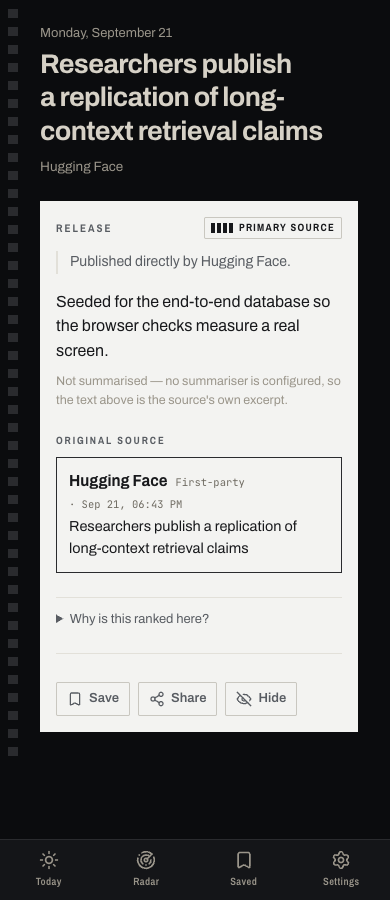
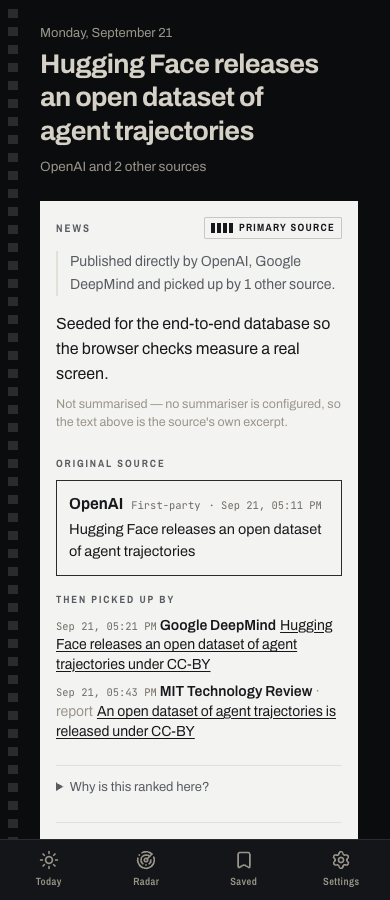
The multi-source path, seen rendered — and three defects it revealed
The reviewer blocked on the gap I disclosed rather than waving it
through, and the argument was made out of this PR's own evidence: this
page has a demonstrated defect class that typecheck, unit tests and DOM
assertions do not catch — four found by looking — one of which made a
SOURCE'S NAME barely legible, and the unlooked-at path renders SEVERAL
source names with roles. That is not an edge case, it is the ticket's
subject in its densest form.

A MULTI-SOURCE STORY NOW EXISTS LOCALLY, through the real pipeline. Two
seeded items with nearly identical headlines and different links go to
two different feeds; assignStory clusters them on title similarity
rather than on the trivial same-URL path. They joined an existing item,
so the corpus now holds a story with THREE sources and a real pickup
order. Nothing is hand-written: it goes through runIngest, the real
normalizer and the real clusterer like every other seeded story.

THREE DEFECTS IT REVEALED, none of which any test would have failed on:

THE TRUE PRIMARY WAS BEING PICKED BY ROLE. Real data produced a story
with two items both marked "primary" — role is a property of an item and
nothing stops two carrying it — while stories.primary_item_id picks
exactly one and is what story.url is built from. Matching the url agrees
with the card by construction; "the first one with the role" would have
been right almost always and silently wrong here.

A ROLE OF "primary" WAS PRINTED UNDER "THEN PICKED UP BY", which says the
[…]

diff --git a/src/components/story/story-provenance.tsx b/src/components/story/story-provenance.tsx
@@ -33,7 +33,21 @@ export function StoryProvenance({
   story: StoryDetail;
   publishedAt: Date | null;
 }) {
-  const primary = story.items.find((i) => i.role === "primary") ?? story.items[0] ?? null;
+  // THE TRUE PRIMARY IS THE ONE THE STORY'S OWN URL CAME FROM, not the first
+  // item wearing the role. Real seeded data turned up a story with THREE
+  // sources and TWO items both marked "primary" — `role` is a property of an
+  // item, and nothing stops two of them carrying it, while `stories.
+  // primary_item_id` picks exactly one and is what `story.url` is built from.
+  //
+  // Matching on the url therefore agrees with the card by construction rather
+  // than by coincidence, and picking "the first one with the role" would have
+  // been right almost always and silently wrong here. Role is kept as the
+  // fallback for a story whose url is null.
+  const primary =
+    story.items.find((i) => story.url !== null && i.url === story.url) ??
+    story.items.find((i) => i.role === "primary") ??
+    story.items[0] ??
+    null;
   const others = story.items.filter((i) => i !== primary);
 
   return (
@@ -103,7 +117,17 @@ export function StoryProvenance({
                   {when(item.publishedAt)}
                 </span>{" "}
                 <b className="text-ink font-semibold">{item.source.name}</b>
-                {item.role ? <span className="text-ash"> · {item.role}</span> : null}
+                {/* A ROLE OF "primary" IS NOT PRINTED HERE, because this list is
+                    headed "Then picked up by" and the two together contradict
+                    each other. Real seeded data produced a story with two items
+                    both marked primary — `role` is per item and nothing stops
+                    that — and the true origin is already shown above. Printing
+                    it a second time under a heading that says the opposite
+                    tells the reader something false about the relationship.
+                    Every other role is information and is kept. */}
+                {item.role && item.role !== "primary" ? (
+                  <span className="text-ash"> · {item.role}</span>
+                ) : null}
                 <a
                   href={item.url}
                   target="_blank"

diff --git a/scripts/seed-e2e-stories.ts b/scripts/seed-e2e-stories.ts
@@ -108,6 +108,26 @@ const ITEMS = [
   },
 ];
 
+/**
+ * One story told twice, so the corpus contains a multi-source story at all.
+ *
+ * The headlines share almost every token, which is what makes assignStory
+ * cluster them; the links differ, which is what makes them two items from two
+ * sources rather than one item seen twice.
+ */
+const PICKUP = {
+  origin: {
+    title: "Hugging Face releases an open dataset of agent trajectories",
+    link: "https://huggingface.co/e2e-trajectories-release",
+    minutesAgo: 250,
+  },
+  report: {
+    title: "Hugging Face releases an open dataset of agent trajectories under CC-BY",
+    link: "https://www.theverge.com/e2e-trajectories-report",
+    minutesAgo: 240,
+  },
+};
+
 function rssFeed(now: Date, items: typeof ITEMS): string {
   const entries = items
     .map(
@@ -164,6 +184,25 @@ async function main() {
   const routes: Record<string, string> = {};
   withUrls.forEach((source, index) => {
     const mine = ITEMS.filter((_, i) => i % withUrls.length === index);
+    // THE PICKUP PAIR, and it is the only reason this seeder can produce a
+    // story with MORE THAN ONE SOURCE.
+    //
+    // Every other item goes to exactly one feed, so every other story has one
+    // source — which means the story page's whole subject, several sources
+    // with roles and an order, was unreachable locally and could only be
+    // typechecked. #15's acceptance names that case specifically.
+    //
+    // These two go to the first two feeds with DIFFERENT links and nearly the
+    // same headline, which is what a real pickup looks like: the lab publishes,
+    // somebody reports on it. assignStory clusters them because the titles pass
+    // isSameStory (tokenJaccard >= 0.5) while the canonical URLs differ — so
+    // this exercises the TITLE path rather than the trivial same-URL one, and
+    // the story ends up with two raw_items from two sources.
+    //
+    // It is not a hand-written story row: it goes through runIngest, the real
+    // normalizer and the real clusterer, exactly like everything else here.
+    if (index === 0) mine.push(PICKUP.origin);
+    if (index === 1) mine.push(PICKUP.report);
     routes[source.url] = rssFeed(now, mine);
   });
 

diff --git a/src/app/story/[slug]/page.tsx b/src/app/story/[slug]/page.tsx
@@ -74,7 +74,9 @@ export default async function StoryPage({ params }: PageProps<"/story/[slug]">) 
         story.primarySource ? (
           <span>
             {story.primarySource.name}
-            {story.sourceCount > 1 ? ` and ${story.sourceCount - 1} other source(s)` : ""}
+            {story.sourceCount > 1
+              ? ` and ${story.sourceCount - 1} other source${story.sourceCount - 1 === 1 ? "" : "s"}`
+              : ""}
           </span>
         ) : undefined
       }
